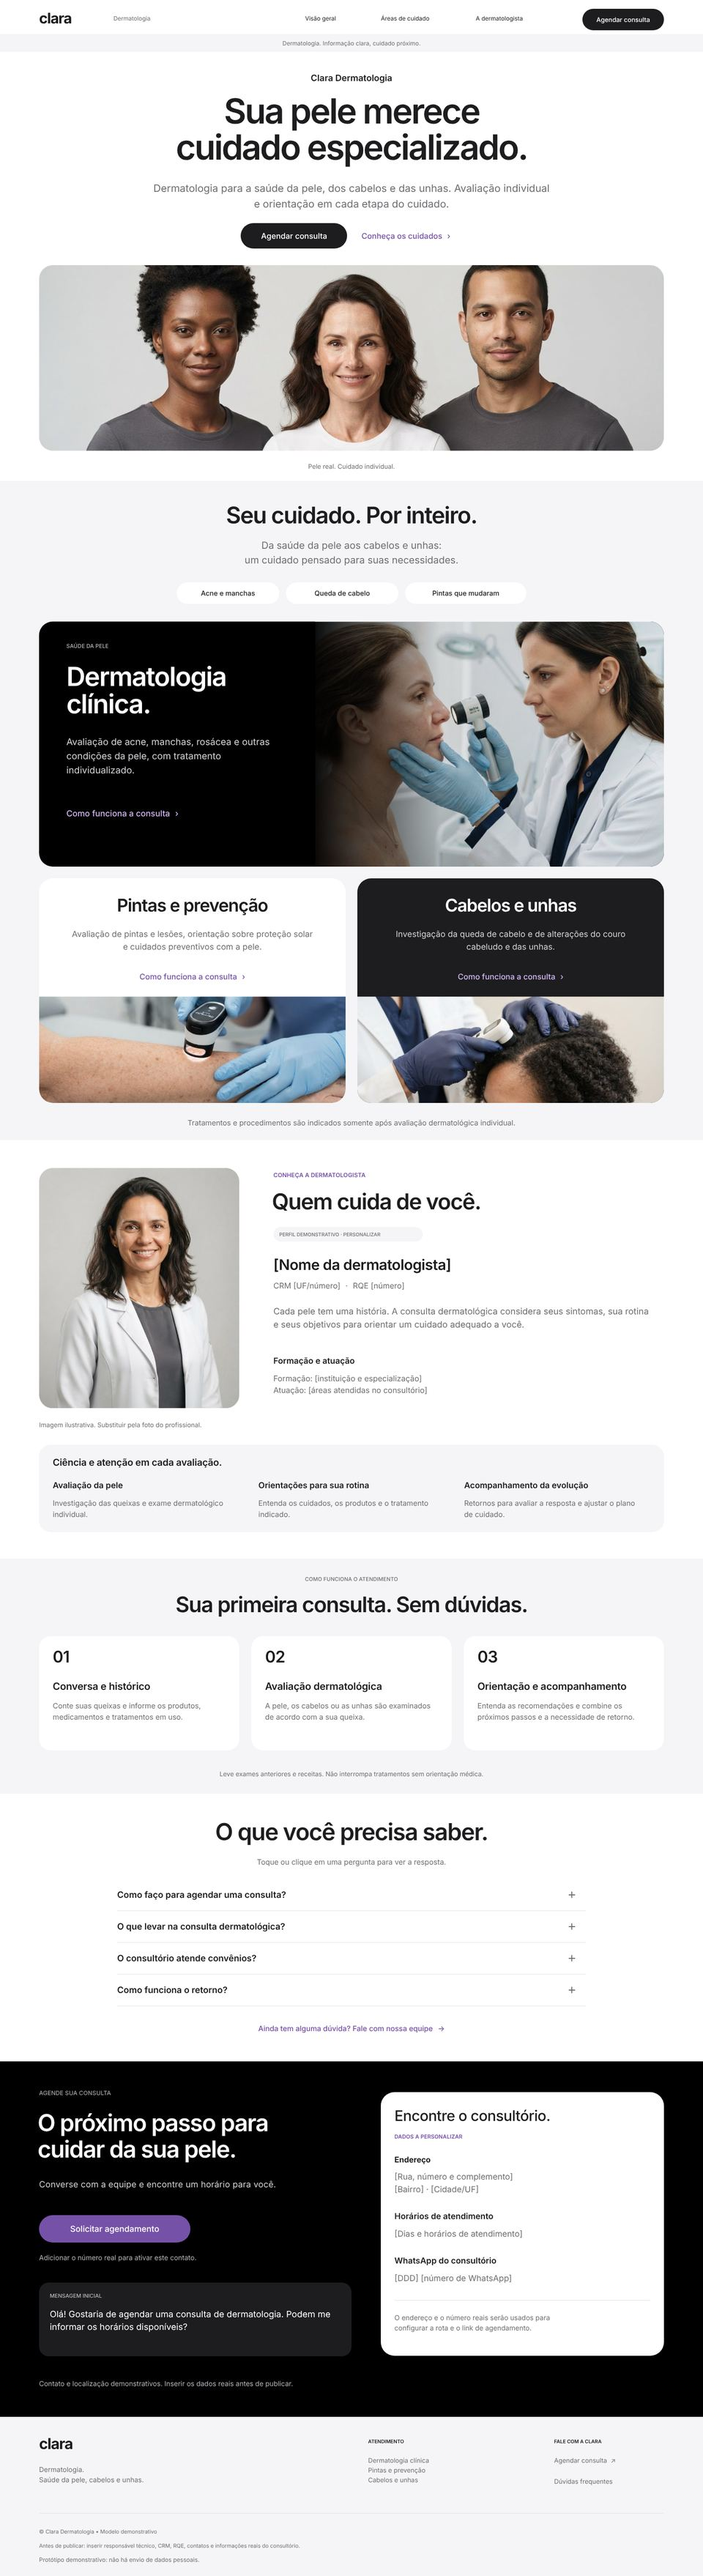
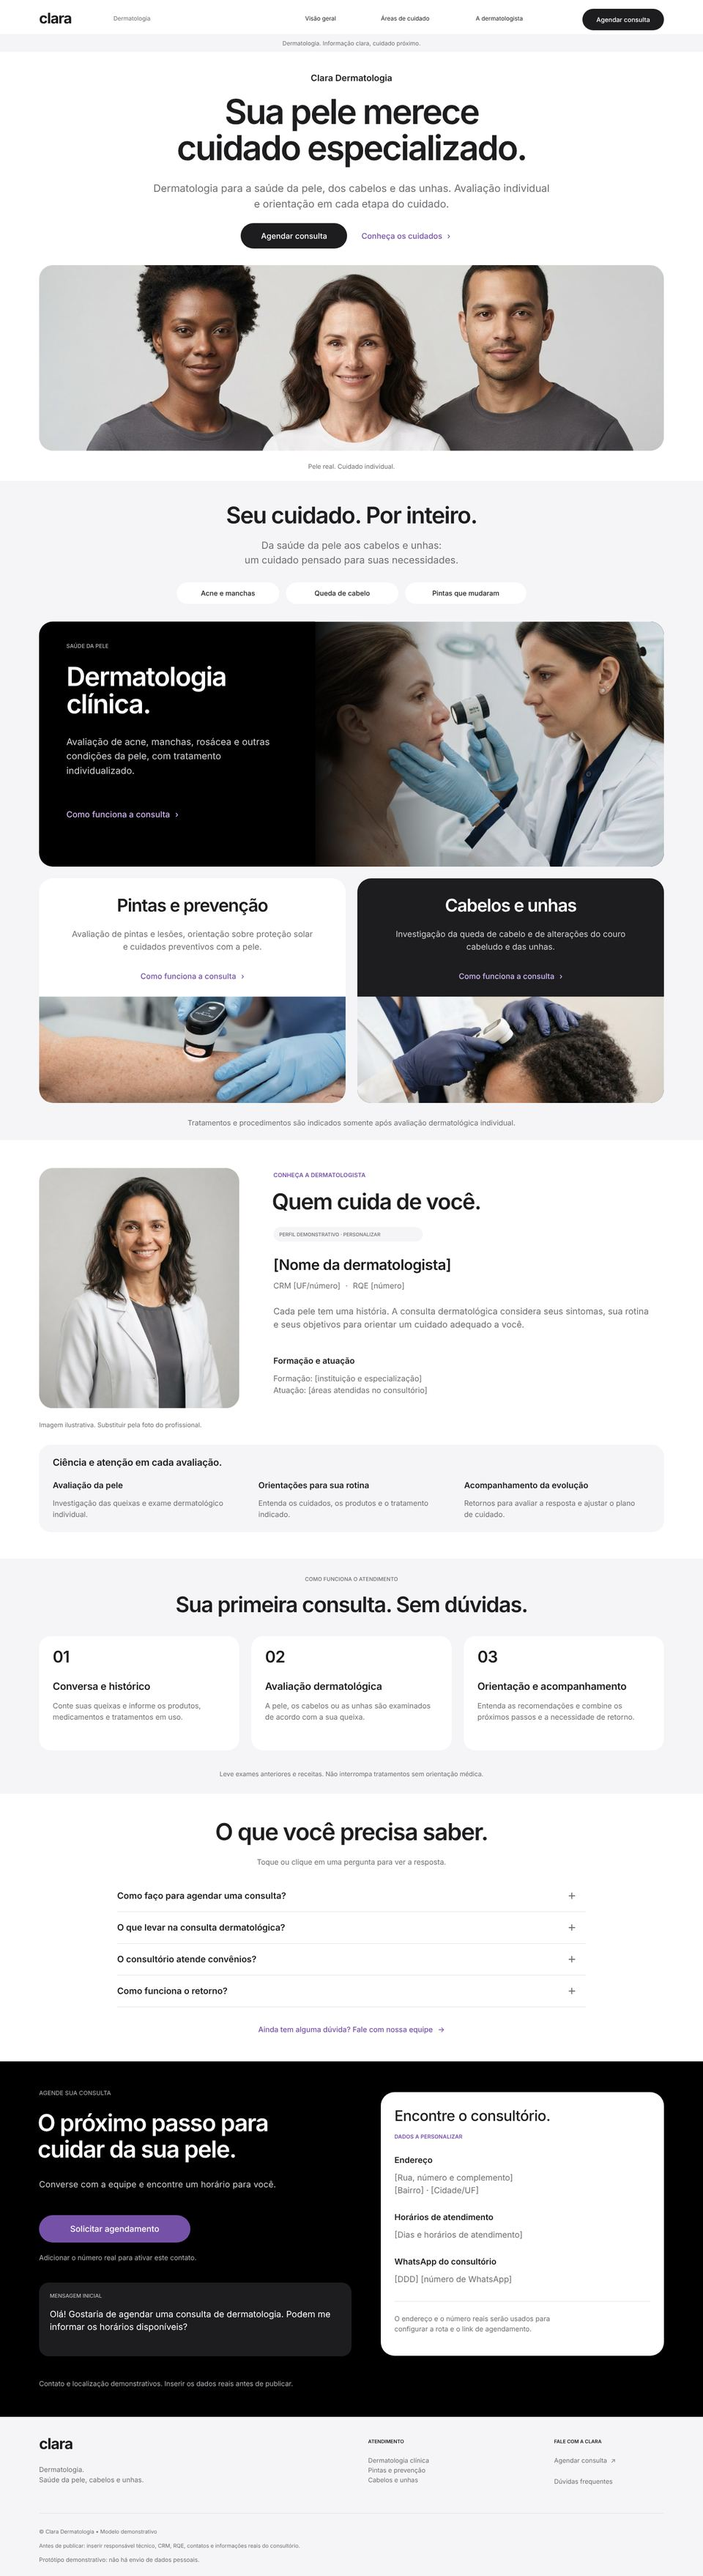
Clara: fotos do celular com o enquadramento do layout e ajustes finos de espaçamento
Claude-Session: https://claude.ai/code/session_018FZ73Mk82hYkhpEW92P8sM

diff --git a/clara/styles.css b/clara/styles.css
@@ -52,8 +52,8 @@ button { font: inherit; color: inherit; background: none; border: 0; padding: 0;
 /* Hero */
 .hero { text-align: center; padding-top: 42px; }
 .hero-kicker { font-size: 18px; line-height: 24px; font-weight: 600; }
-.hero h1 { margin-top: 18px; font-size: 71px; line-height: 74px; font-weight: 600; letter-spacing: -0.045em; }
-.hero-lead { margin-top: 32px; font-size: 21px; line-height: 32px; color: var(--gray); }
+.hero h1 { margin-top: 20px; font-size: 70.6px; line-height: 74px; font-weight: 600; letter-spacing: -0.045em; }
+.hero-lead { margin-top: 30px; font-size: 21px; line-height: 32px; color: var(--gray); }
 .hero-actions { margin-top: 23px; display: flex; justify-content: center; align-items: center; gap: 29px; padding-right: 24px; }
 .btn-lg { height: 52px; font-size: 16px; }
 .hero-actions .btn { width: 218px; }
@@ -72,9 +72,9 @@ button { font: inherit; color: inherit; background: none; border: 0; padding: 0;
 .feature-text { padding: 43px 0 0 56px; }
 .feature .eyebrow { color: #b9b9c1; }
 .feature h3 { margin-top: 28px; font-size: 54px; line-height: 56px; font-weight: 600; letter-spacing: -0.035em; }
-.feature-p { margin-top: 35px; font-size: 19px; line-height: 29px; color: var(--soft); }
-.feature .link { display: inline-block; margin-top: 64px; font-size: 17px; }
-.feature-img img { width: 100%; height: 100%; object-fit: cover; }
+.feature-p { margin-top: 35px; font-size: 19px; line-height: 29.5px; color: var(--soft); }
+.feature .link { display: inline-block; margin-top: 65px; font-size: 17px; }
+.feature-img picture { display: block; height: 100%; } .feature-img img { width: 100%; height: 100%; object-fit: cover; }
 .duo { margin-top: 24px; display: grid; grid-template-columns: 1fr 1fr; gap: 24px; }
 .tile { border-radius: 28px; overflow: hidden; text-align: center; display: flex; flex-direction: column; }
 .tile-light { background: #fff; }
@@ -83,7 +83,7 @@ button { font: inherit; color: inherit; background: none; border: 0; padding: 0;
 .tile h3 { font-size: 36px; line-height: 46px; font-weight: 600; letter-spacing: -0.035em; }
 .tile p { margin-top: 23px; font-size: 17px; line-height: 26px; color: var(--gray); }
 .tile-dark p { color: var(--soft); }
-.tile .link { display: inline-block; margin-top: 38px; font-size: 16px; }
+.tile .link { display: inline-block; margin-top: 38px; font-size: 15.7px; }
 .tile img { width: 100%; height: 218px; object-fit: cover; }
 .care .note { margin-top: 31px; }
 
@@ -120,10 +120,10 @@ button { font: inherit; color: inherit; background: none; border: 0; padding: 0;
 .note-sm { margin-top: 38px; font-size: 13px; }
 
 /* FAQ */
-.faq { padding: 52px 0 58px; }
+.faq { padding: 52px 0 56px; }
 .faq .h2 { font-size: 48px; }
 .sub-sm { margin-top: 24px; font-size: 15px; line-height: 22px; }
-.faq-list { max-width: 960px; margin: 24px auto 0; }
+.faq-list { max-width: 960px; margin: 26px auto 0; }
 .faq-item { border-bottom: 1px solid var(--line); }
 .faq-q { width: 100%; min-height: 64px; display: flex; align-items: center; justify-content: space-between; gap: 24px; text-align: left; font-size: 18px; line-height: 24px; font-weight: 600; padding: 12px 0; }
 .faq-q i { position: relative; flex: none; width: 13px; height: 13px; margin-right: 22px; }
@@ -148,7 +148,7 @@ button { font: inherit; color: inherit; background: none; border: 0; padding: 0;
 .place { margin-top: 5px; background: #fff; color: var(--ink); border-radius: 28px; padding: 30px 28px 42px; height: 540px; }
 .place h3 { font-size: 30px; line-height: 36px; font-weight: 500; letter-spacing: -0.02em; }
 .place .eyebrow { margin-top: 18px; font-size: 11px; }
-.place h4 { margin-top: 30px; } .place h4 ~ h4 { margin-top: 31px; font-size: 17px; line-height: 22px; font-weight: 600; }
+.place h4 { margin-top: 30px; font-size: 17px; line-height: 22px; font-weight: 600; } .place h4 ~ h4 { margin-top: 31px; }
 .place h4 + p { margin-top: 12px; font-size: 17px; line-height: 26px; color: var(--gray); }
 .place-note { margin-top: 32px; padding-top: 24px; border-top: 1px solid var(--line); font-size: 14px; line-height: 21px; color: var(--gray); }
 .cta-foot { margin-top: 47px; font-size: 14px; color: #b5b5bc; }
@@ -214,15 +214,15 @@ button { font: inherit; color: inherit; background: none; border: 0; padding: 0;
   .care .sub { margin-top: 20px; }
   
   .chips { flex-wrap: wrap; gap: 9px 12px; margin-top: 16px; }
-  .chips li { font-size: 13.5px; }
+  .chips li { font-size: 13.3px; }
   .chips .c1 { width: calc((100% - 12px) * .473); } .chips .c2 { width: calc((100% - 12px) * .527); } .chips .c3 { width: 232px; }
 
   .feature { margin-top: 16px; display: block; height: auto; border-radius: 20px; }
-  .feature-text { padding: 27px 24px 0; height: 280px; }
+  .feature-text { padding: 27px 24px 0; height: 284px; }
   .feature h3 { margin-top: 20px; font-size: 32.3px; line-height: 34px; }
   .feature-p { margin-top: 18px; font-size: 16px; line-height: 24px; }
   .feature .link { margin-top: 27px; font-size: 14.7px; }
-  .feature-img img { height: 210px; object-position: 70% 40%; }
+  .feature-img img { height: 206px; }
   .duo { grid-template-columns: 1fr; gap: 19px; margin-top: 20px; }
   .tile { border-radius: 22px; }
   .tile-text { height: auto; padding: 29px 24px 26px; }
@@ -280,10 +280,10 @@ button { font: inherit; color: inherit; background: none; border: 0; padding: 0;
   .msg { margin-top: 26px; padding: 22px 20px 26px; }
   .msg-text { margin-top: 16px; font-size: 16px; line-height: 24px; }
   .place { margin-top: 22px; height: auto; padding: 31px 20px 28px; }
-  .place h3 { font-size: 26.5px; } .place h4 + p { font-size: 16px; line-height: 24px; }
+  .place h3 { font-size: 26.5px; } .place h4 + p { margin-top: 11px; font-size: 16px; line-height: 24px; }
   .place .eyebrow { margin-top: 22px; }
-  .place h4 { margin-top: 25px; } .place h4 ~ h4 { margin-top: 28px; }
-  .place-note { margin-top: 25px; padding-top: 21px; }
+  .place h4 { margin-top: 25px; } .place h4 ~ h4 { margin-top: 29px; }
+  .place-note { margin-top: 26px; padding-top: 21px; }
   .place-note br { display: none; }
   .cta-foot { margin-top: 26px; font-size: 13px; line-height: 20px; }
 

diff --git a/clara/index.html b/clara/index.html
@@ -63,7 +63,7 @@
           <p class="feature-p">Avaliação de acne, manchas, rosácea <br class="m-only">e outras <br class="d-only">condições da pele, com <br class="m-only">tratamento <br class="d-only">individualizado.</p>
           <a class="link link-light" href="#como-funciona">Como funciona a consulta <span class="chev">›</span></a>
         </div>
-        <div class="feature-img"><img src="assets/avaliacao.jpg" alt="Dermatologista examinando a pele do rosto de uma paciente com dermatoscópio" loading="lazy"></div>
+        <div class="feature-img"><picture><source media="(max-width: 900px)" srcset="assets/avaliacao-mobile.jpg"><img src="assets/avaliacao.jpg" alt="Dermatologista examinando a pele do rosto de uma paciente com dermatoscópio" loading="lazy"></picture></div>
       </article>
 
       <div class="duo">
@@ -73,7 +73,7 @@
             <p>Avaliação de pintas e lesões, orientação sobre proteção solar <br class="d-only">e cuidados preventivos com a pele.</p>
             <a class="link" href="#como-funciona">Como funciona a consulta <span class="chev">›</span></a>
           </div>
-          <img src="assets/pintas.jpg" alt="Exame de pintas no braço com dermatoscópio" loading="lazy">
+          <picture><source media="(max-width: 900px)" srcset="assets/pintas-mobile.jpg"><img src="assets/pintas.jpg" alt="Exame de pintas no braço com dermatoscópio" loading="lazy"></picture>
         </article>
         <article class="tile tile-dark">
           <div class="tile-text">
@@ -81,7 +81,7 @@
             <p>Investigação da queda de cabelo e de alterações do couro <br class="d-only">cabeludo e das unhas.</p>
             <a class="link link-light" href="#como-funciona">Como funciona a consulta <span class="chev">›</span></a>
           </div>
-          <img src="assets/cabelos.jpg" alt="Avaliação do couro cabeludo com dermatoscópio" loading="lazy">
+          <picture><source media="(max-width: 900px)" srcset="assets/cabelos-mobile.jpg"><img src="assets/cabelos.jpg" alt="Avaliação do couro cabeludo com dermatoscópio" loading="lazy"></picture>
         </article>
       </div>
       <p class="note">Tratamentos e procedimentos são indicados somente após avaliação dermatológica individual.</p>
